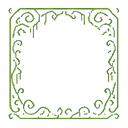
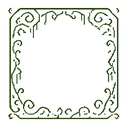
Darken sewer sm atlas filigree — richer moss green

Changed region(s): [[0.0625, 0.0625, 0.9375, 0.9375], [0.9062, 0.0625, 0.9375, 0.0938], [0.1875, 0.25, 0.2188, 0.2812]]

diff --git a/FrontEnds/dungeon-fisher/src/version.js b/FrontEnds/dungeon-fisher/src/version.js
@@ -2,7 +2,7 @@
 //   MAJOR — large game changes, system overhauls, breaking save changes
 //   MINOR — new features, content additions (fish, scenes, mechanics)
 //   PATCH — bug fixes, UI tweaks, balance tuning
-export const VERSION = '1.13.46';
+export const VERSION = '1.13.47';
 
 // Save format version — bump when save data structure changes.
 // This is separate from the game version because UI/balance changes
